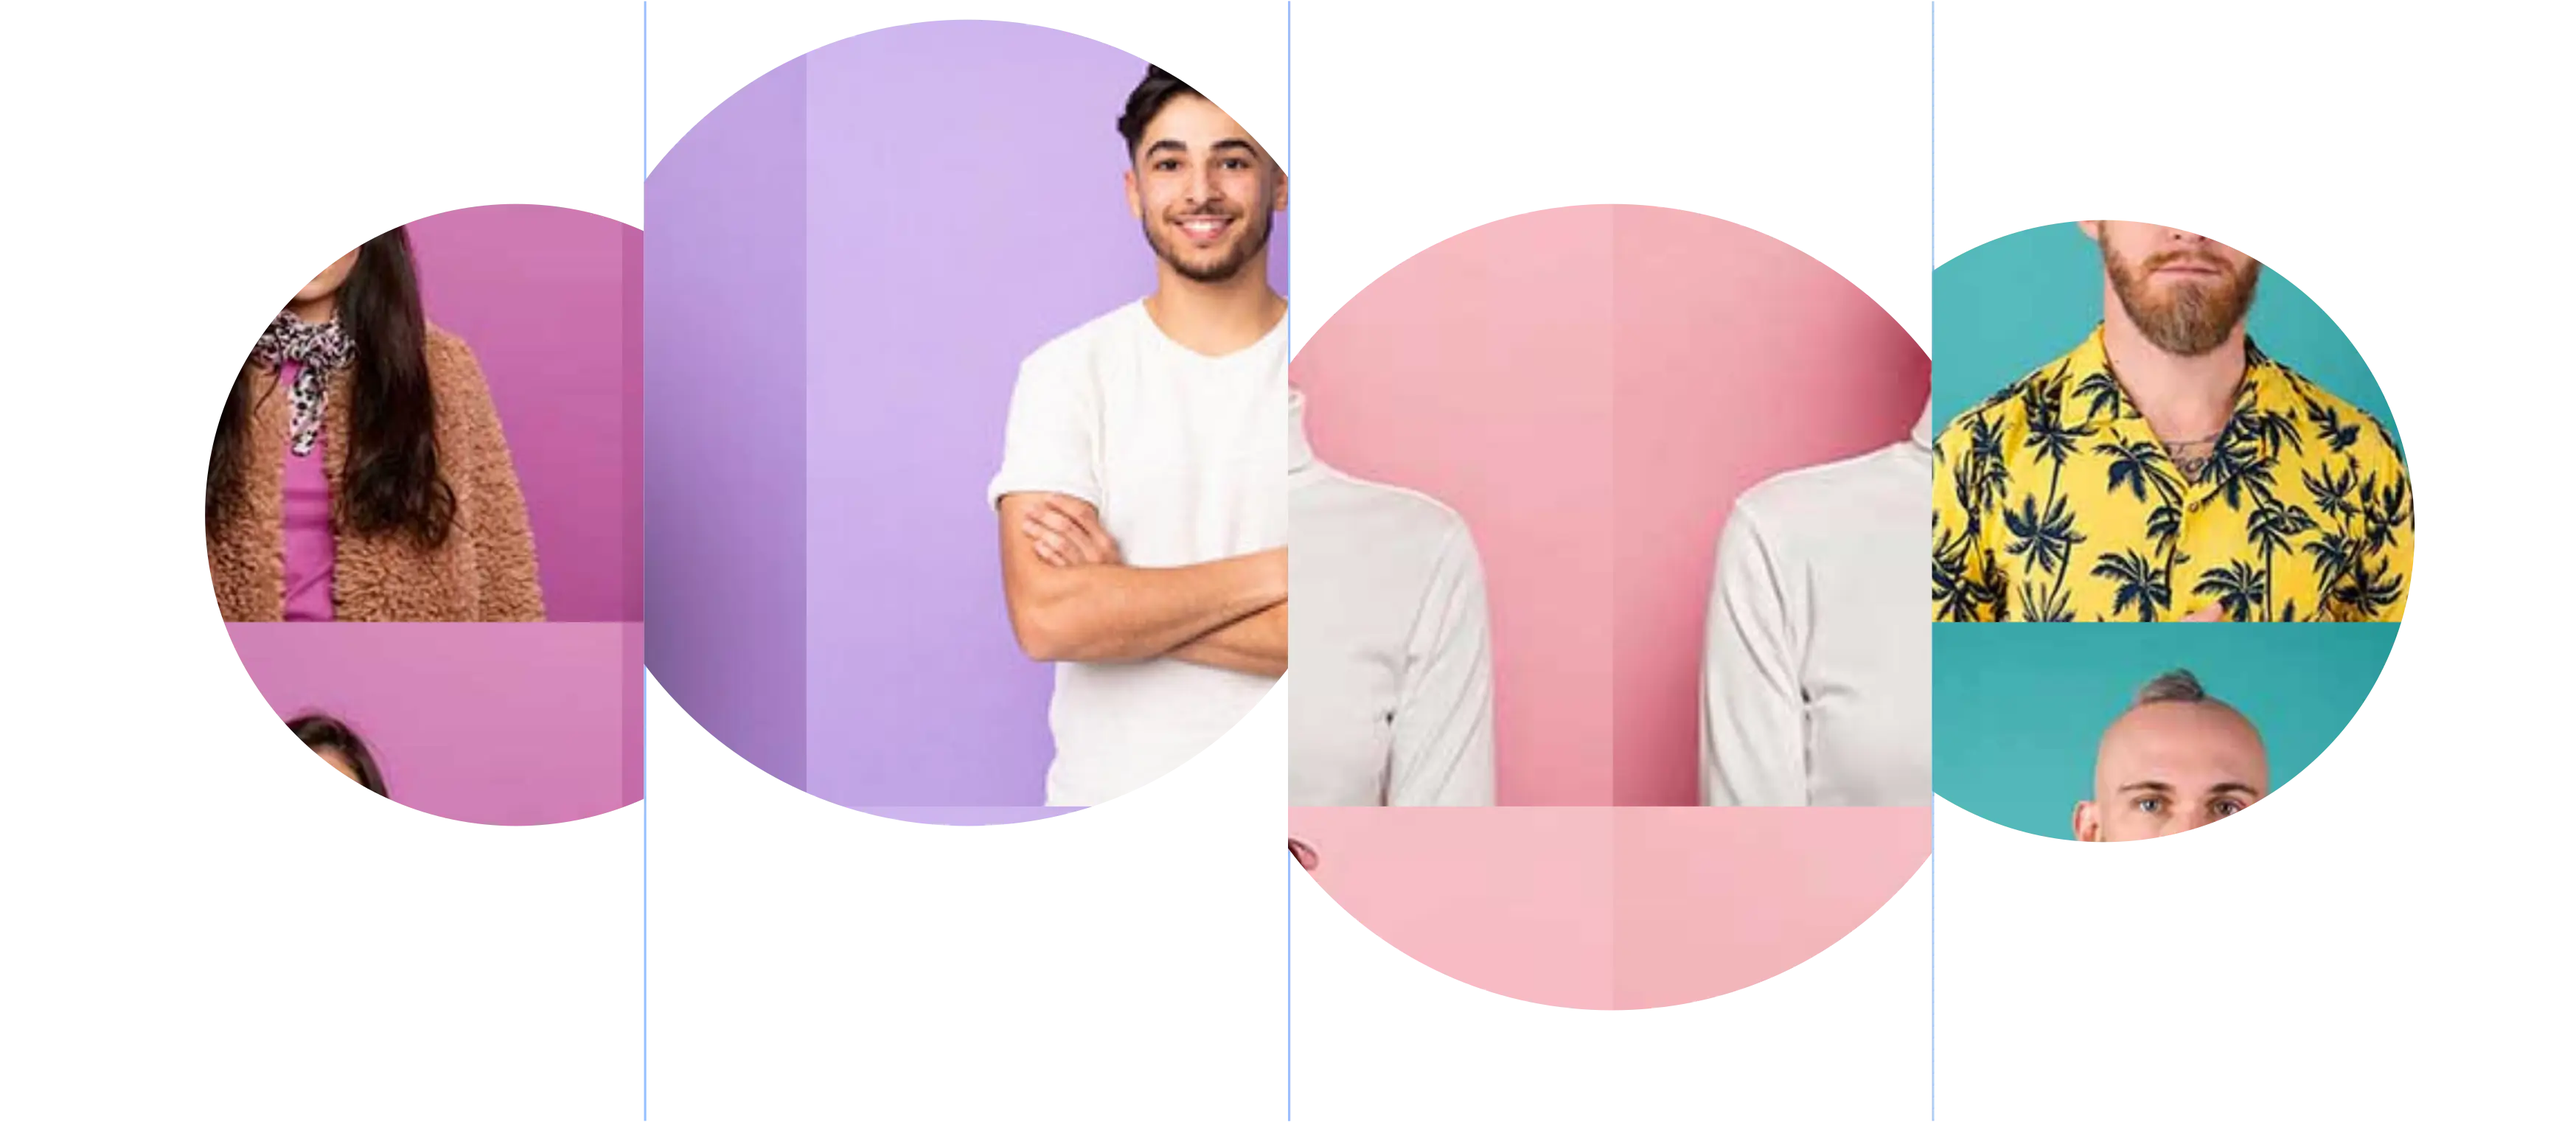
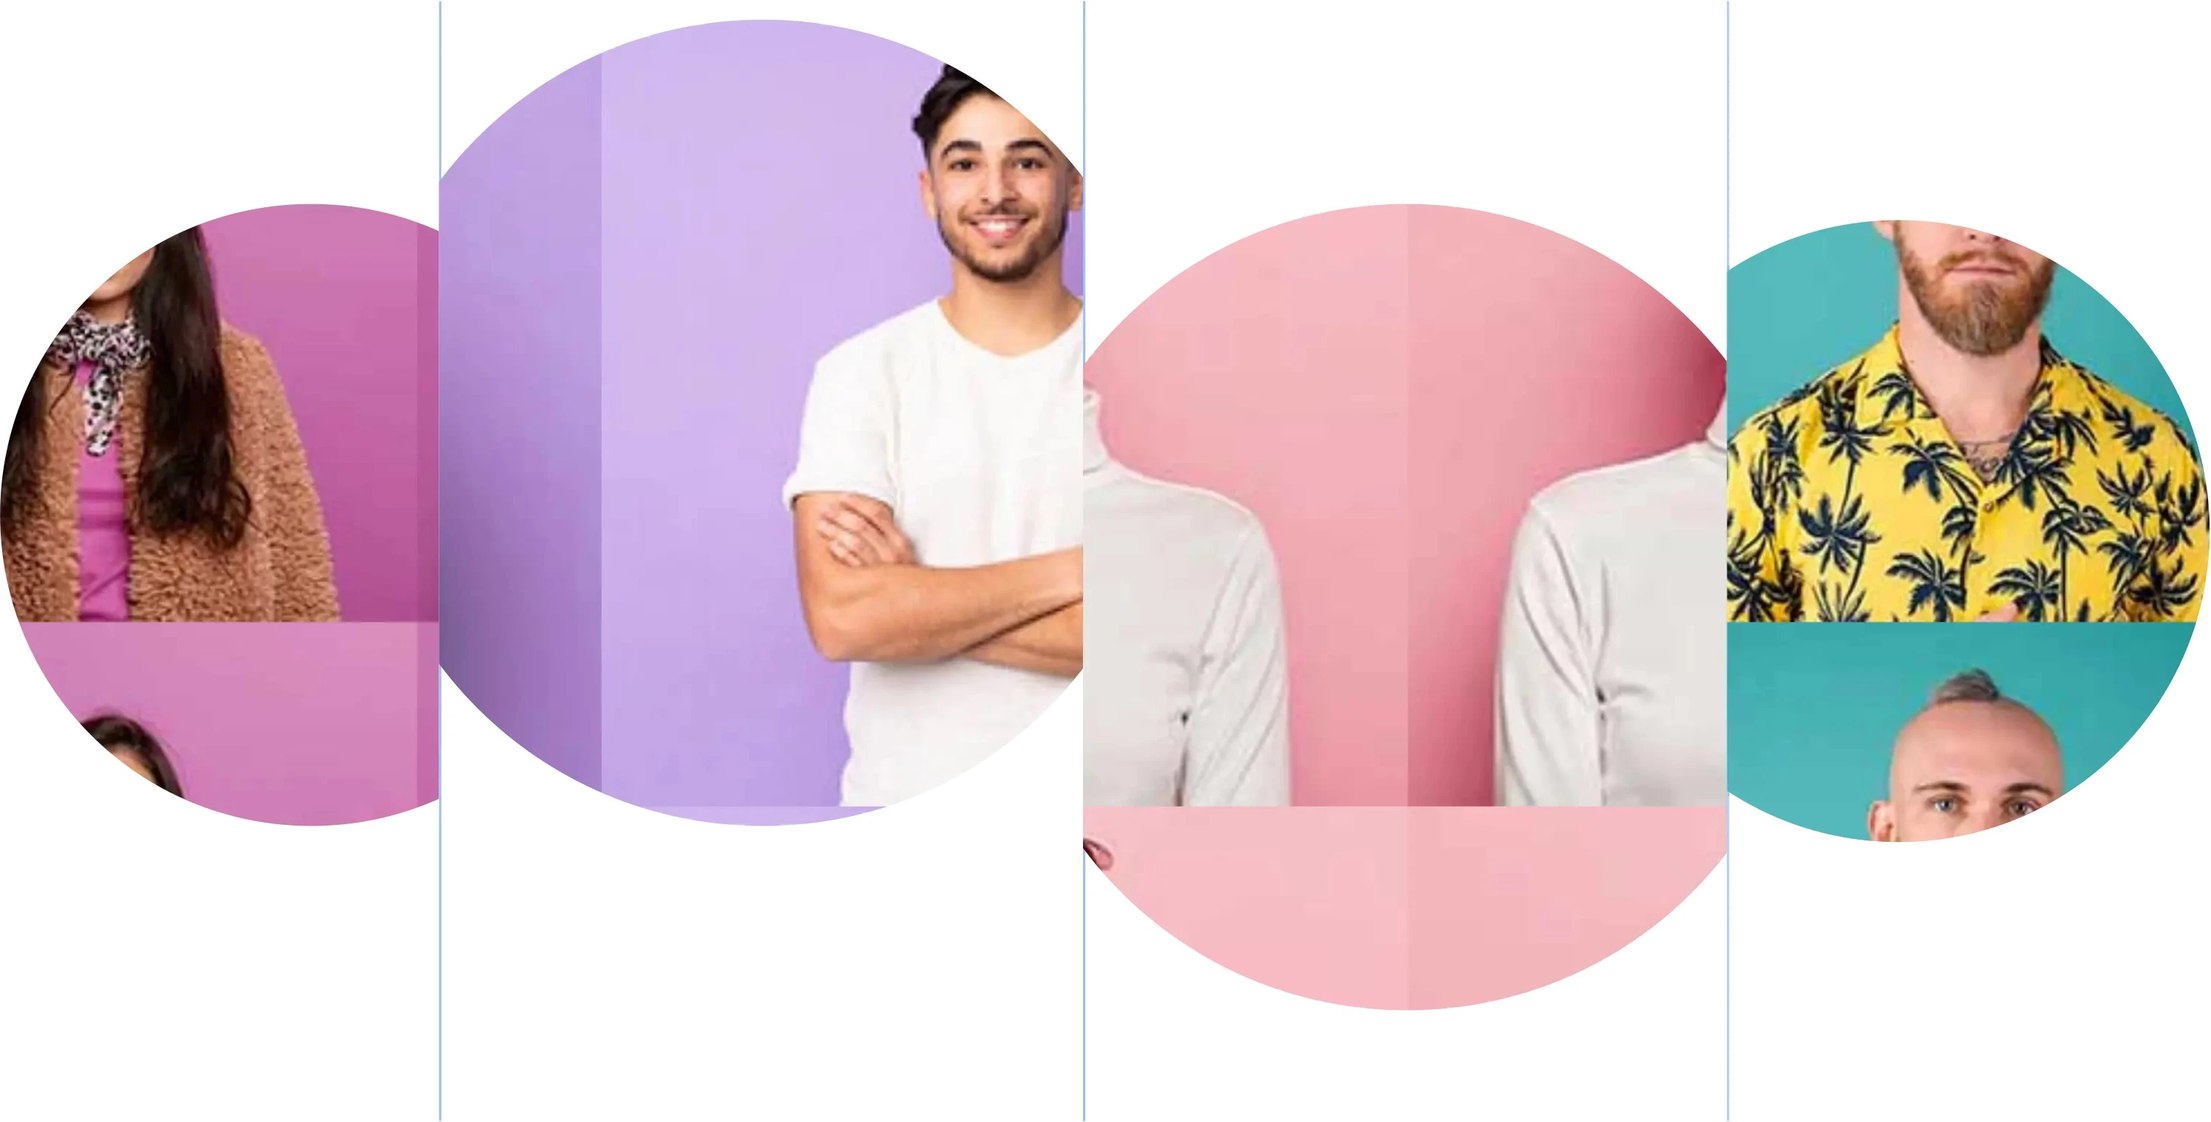
Fix: Fixed mobile view

diff --git a/src/components/Home/Hero.jsx b/src/components/Home/Hero.jsx
@@ -5,7 +5,7 @@ import heroCube from "../../assets/hero-cube.svg";
 const Hero = () => {
   return (
     <div className="mx-auto max-w-[1440px] flex flex-col items-center h-full">
-      <div className="min-h-full w-full flex flex-col justify-center items-center gap-6 px-[clamp(10px,5%,100px)] pt-10 relative">
+      <div className="min-h-full w-full flex flex-col justify-center items-center gap-6 pt-10 relative">
         <img
           src={heroCube}
           className="absolute top-0 -left-5 -z-10 w-16 sm:w-auto sm:top-10"
@@ -14,7 +14,7 @@ const Hero = () => {
           src={heroCube}
           className="absolute top-/ right-5 -z-10 w-16 sm:w-auto sm:top-/"
         />
-        <div>
+        <div className=" px-[clamp(10px,5%,100px)]">
           <p className="text-5xl min-[827px]:text-6xl leading-[4rem] text-center min-[827px]:leading-[5rem] min-[827px]:text-center font-segoeUI font-semibold text-lightdark">
             Lorem
           </p>
@@ -22,13 +22,13 @@ const Hero = () => {
             Ipsum Ipsum.
           </p>
         </div>
-        <p className="min-[827px]:text-center max-w-[827px] text-xl font-montserrat text-center text-lightdark">
+        <p className="min-[827px]:text-center max-w-[827px] text-xl px-[clamp(10px,5%,100px)] font-montserrat text-center text-lightdark">
           Our vision is to revolutionize Research through cutting-edge research
           and technology development, focusing on areas critical to human
           welfare and environmental sustainability.
         </p>
-        <div className="w-[40%] h-[1px] mt-4 bg-[#313131]" />
-        <div className="mt-2 w-full flex justify-center">
+        <div className="w-[40%] h-[1px] mt-4 bg-[#313131] px-[clamp(10px,5%,100px)]" />
+        <div className="mt-2 w-full flex justify-center px-[clamp(10px,5%,100px)]">
           <Link to={"/contact"} className="w-full flex justify-center">
             <button
               aria-label="Join Us"
@@ -38,10 +38,10 @@ const Hero = () => {
             </button>
           </Link>
         </div>
-        <div className="w-full mt-20 flex justify-center">
+        <div className="w-full mt-20 flex justify-center overflow-hidden sm:px-[clamp(10px,5%,100px)]">
           <img
             src={heroImage}
-            className="w-[493px,100%,1120px]"
+            className="w-[clamp(400px,100%,1120px)] mix-blend-multiply"
             loading="lazy"
           />
         </div>

diff --git a/src/components/Home/MeetTheTeam.jsx b/src/components/Home/MeetTheTeam.jsx
@@ -28,12 +28,12 @@ const MeetTheTeam = ({ centerTitle, showSubtitle }) => {
 
   return (
     <div className="w-full bg-[#FFFFFF] pb-28 mt-20">
-      <div className="mx-auto max-w-[1440px] flex flex-col items-center h-full">
+      <div className="mx-auto max-w-[1440px] w-full flex flex-col items-center h-full">
         <div className="min-h-full w-full flex flex-col justify-center items-center gap-6 px-[clamp(10px,5%,100px)] pt-10">
           <div className="w-full">
             <p className="font-inter text-[#0062FF] font-semibold">OUR TEAM</p>
             <p
-              className={`text-4xl min-[827px]:text-5xl  leading-[3rem] min-[827px]:leading-[4rem] ${
+              className={`text-4xl min-[827px]:text-5xl leading-[3rem] min-[827px]:leading-[4rem] ${
                 centerTitle ? "text-center" : "text-start"
               } ${
                 showSubtitle
@@ -51,13 +51,13 @@ const MeetTheTeam = ({ centerTitle, showSubtitle }) => {
               </p>
             )}
           </div>
-          <div className="w-full overflow-auto mt-4 custom-scrollbar">
-            <div className="w-full flex gap-x-10 min-w-[480px] pb-6">
+          <div className="w-screen min-[900px]:w-[calc(100vw-185px)] overflow-x-scroll mt-4 scrollbar-hide flex items-start sm:px-[clamp(10px,5%,100px)]">
+            <div className="flex justify-start space-x-10 overflow-scroll scrollbar-hide">
               {teams.map((team, i) => (
                 <button
                   key={i}
                   onClick={() => setCurrentTab(i)}
-                  className={`font-montserrat text-base font-semibold flex w-fit whitespace-nowrap ${
+                  className={`font-montserrat text-base font-semibold flex whitespace-nowrap ${
                     currentTab === i
                       ? "text-darkblue border-b-2 border-darkblue pb-3"
                       : "text-[#666666]"

diff --git a/src/components/about/MissionAndGoals.jsx b/src/components/about/MissionAndGoals.jsx
@@ -30,7 +30,7 @@ const MissionAndGoals = () => {
                 </div>
               </div>
               <div className="min-[900px]:flex w-[100%] min-[900px]:w-[clamp(200px,50%,562px)] rounded-lg relative flex-col gap-y-10">
-                <div className="relative p-6 pl-4 h-fit flex bg-white rounded-r-xl">
+                <div className="relative p-6 pl-4 h-fit flex bg-white rounded-r-xl gap-x-4">
                   <div className="w-[6px] h-full absolute left-0 top-0 bg-gradient-to-b from-[#0062FF] to-[#65D1FF]" />
                   <div className="flex-[0.2] flex justify-center items-center w-full h-auto">
                     <img src={communication} className="" />
@@ -46,7 +46,7 @@ const MissionAndGoals = () => {
                     </p>
                   </div>
                 </div>
-                <div className="relative p-6 pl-4 h-fit flex mt-6 bg-white rounded-r-xl">
+                <div className="relative p-6 pl-4 h-fit flex mt-6 bg-white rounded-r-xl gap-x-4">
                   <div className="w-[6px] h-full absolute left-0 top-0 bg-gradient-to-b from-[#0062FF] to-[#65D1FF]" />
                   <div className="flex-[0.2] flex justify-center items-center w-full h-auto">
                     <img src={empathy} className="" />
@@ -62,7 +62,7 @@ const MissionAndGoals = () => {
                     </p>
                   </div>
                 </div>
-                <div className="relative p-6 pl-4 h-fit flex mt-6 bg-white rounded-r-xl">
+                <div className="relative p-6 pl-4 h-fit flex mt-6 bg-white rounded-r-xl gap-x-4">
                   <div className="w-[6px] h-full absolute left-0 top-0 bg-gradient-to-b from-[#0062FF] to-[#65D1FF]" />
                   <div className="flex-[0.2] flex justify-center items-center w-full h-auto">
                     <img src={innovation} className="" />

diff --git a/src/components/Home/Research.jsx b/src/components/Home/Research.jsx
@@ -9,7 +9,7 @@ const Research = () => {
   return (
     <div className="w-full bg-[#EFF3FF] mt-20">
       <div className="relative mx-auto max-w-[1440px] flex flex-wrap justify-between items-center gap-6 px-[clamp(10px,5%,100px)] pt-28 pb-20">
-        <div className="flex-1 relative z-0 min-w-[400px]">
+        <div className="flex-1 relative z-0 min-w-[200px]">
           <p className="text-4xl min-[827px]:text-[3.4rem] text-[#1E254C] leading-[4rem] min-[827px]:leading-[4rem] font-segoeUI font-semibold">
             What happens when{" "}
             <span className="text-[#0035E8]">AI-driven decision-making</span>{" "}
@@ -37,7 +37,7 @@ const Research = () => {
             </Link>
           </div>
         </div>
-        <div className="flex mt-4 relative min-[827px]:mt-0 justify-center items-start flex-1 min-[827px]:gap-8 min-w-[400px] h-full">
+        <div className="flex mt-4 relative min-[827px]:mt-0 justify-center items-start flex-1 min-[827px]:gap-8 min-w-[200px] h-full">
           <img loading="lazy" src={researchImage} className="flex mx-auto" />
           <img
             loading="lazy"

diff --git a/src/pages/Contact.jsx b/src/pages/Contact.jsx
@@ -8,7 +8,7 @@ const Contact = () => {
     <div className="pt-20 w-full min-h-fit">
       <div className="min-h-full w-full flex flex-col justify-center items-center gap-6 px-[clamp(10px,5%,100px)] pt-10 relative">
         <div>
-          <p className="text-5xl max-w-[720px] min-[827px]:text-6xl leading-[4rem] text-center min-[827px]:leading-[5rem] min-[827px]:text-center font-segoeUI font-semibold text-lightdark">
+          <p className="text-4xl leading-[2.5rem] sm:text-5xl max-w-[720px] min-[827px]:text-6xl sm:leading-[4rem] text-center min-[827px]:leading-[5rem] min-[827px]:text-center font-segoeUI font-semibold text-lightdark">
             Got any questions or enquiry?
           </p>
         </div>
@@ -17,7 +17,7 @@ const Contact = () => {
           AI Solution that your business deserves.
         </p>
         <div className="w-full flex justify-center pt-10">
-          <img src={heroImage} className="max-w-[680px]" />
+          <img src={heroImage} className="w-[clamp(240px,100%,680px)]" />
         </div>
       </div>
       <Form />

diff --git a/src/components/contact/Form.jsx b/src/components/contact/Form.jsx
@@ -118,7 +118,7 @@ const Form = () => {
       <Toaster />
       <div className="px-[clamp(10px,5%,100px)] w-full">
         <div className="max-w-[878px]">
-          <p className="font-segoeUI font-black text-5xl text-[#333333]">
+          <p className="font-segoeUI font-black text-4xl sm:text-5xl text-[#333333]">
             We'd love to here from you
           </p>
           {/* <div className="h-[3px] w-24 bg-[#262626] rounded-sm my-7" /> */}
@@ -128,7 +128,7 @@ const Form = () => {
           </p>
         </div>
       </div>
-      <div className="h-fit w-full flex gap-0 flex-wrap-reverse gap-y-10 justify-between px-[clamp(10px,5%,100px)] pt-10 mb-24">
+      <div className="h-fit w-full flex gap-0 flex-wrap-reverse gap-y-10 justify-between px-[clamp(10px,5%,100px)] mb-24">
         <div className="flex flex-col gap-6 min-[760px]:w-[clamp(200px,48%,355px)]">
           <div className="flex gap-4 bg-[#FFFFFF] border border-[#F0F6FF] rounded-2xl p-4 pl-8">
             <img src={phone} className="w-6" loading="lazy" />

diff --git a/src/pages/Home.jsx b/src/pages/Home.jsx
@@ -11,7 +11,7 @@ import Form from "../components/contact/Form";
 
 const Home = () => {
   return (
-    <div className="pt-20 w-full min-h-screen overflow-hidden">
+    <div className="pt-20 max-w-full flex-1 min-h-screen overflow-hidden">
       <Hero />
       <Research />
       <HowWeWork />

diff --git a/index.html b/index.html
@@ -10,7 +10,7 @@
     />
     <link rel="icon" type="image/svg+xml" href="/vite.svg" />
     <meta name="viewport" content="width=device-width, initial-scale=1.0" />
-    <title>Vite + React</title>
+    <title>Exocarb</title>
   </head>
   <body>
     <div id="root"></div>

diff --git a/src/index.css b/src/index.css
@@ -21,6 +21,10 @@
     /* justify-content: center; */
     /* grid-template-columns: repeat(auto-fit, minmax(240px, 1fr)); */
   }
+  .scrollbar-hide::-webkit-scrollbar {
+    scrollbar-width: 0;
+    appearance: none;
+  }
 }
 
 @layer base {
